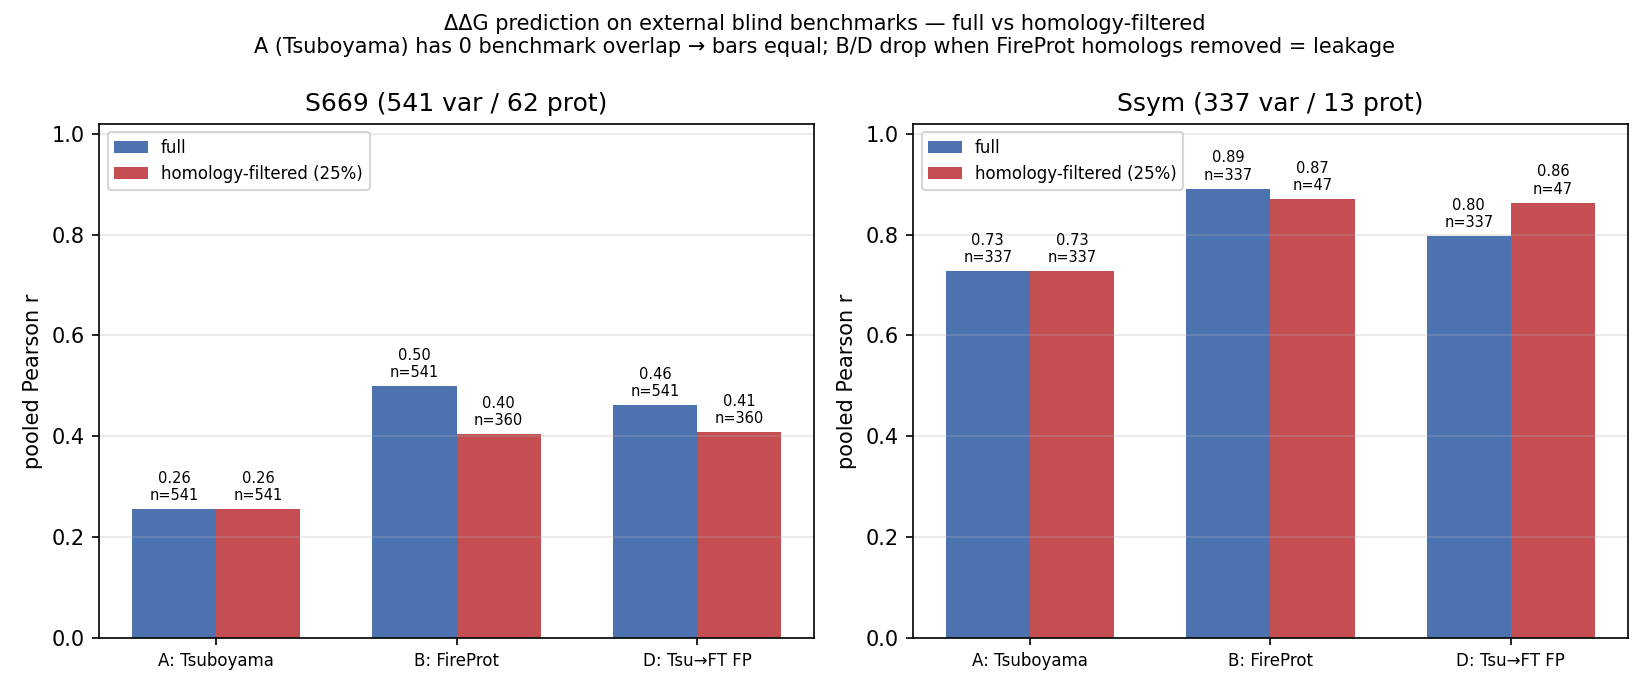
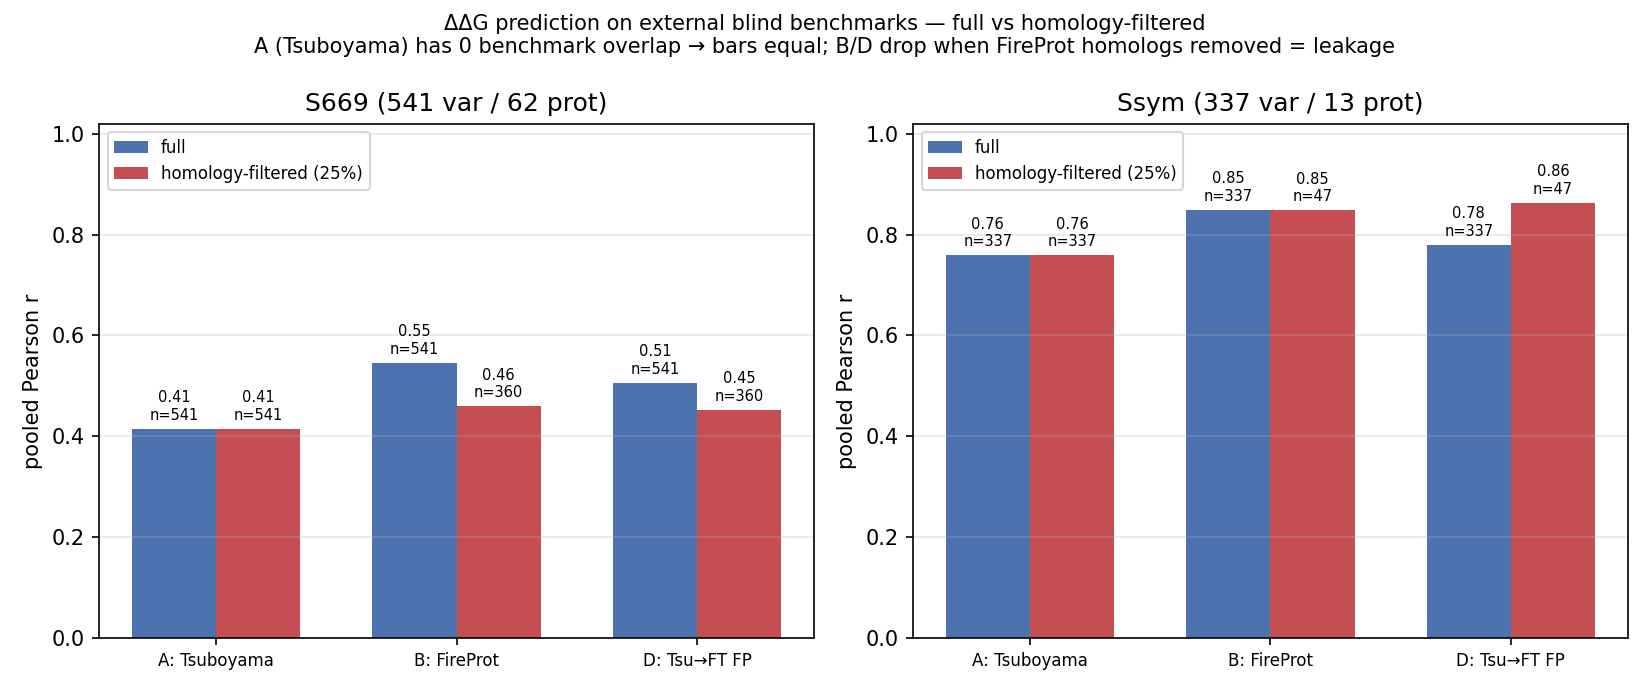
results/09: fix overfit estimator; regime A was understated by ~0.16 r
run_benchmarks.py::members() used early_stopping=False, max_iter=250 instead of
the project-default estimator. max_iter counts epochs, so regime A (24,718
augmented samples) took ~4x regime B's gradient updates and was overfit hardest
— confounding the very A-vs-B-vs-D comparison this study makes.

Swapped in make_model("mlp")'s settings (early_stopping=True, max_iter=1000,
n_iter_no_change=25, validation_fraction=0.1; warm_start retained for regime D's
fine-tune) and re-ran all three regimes. CPU only, ~25 min — every feature table
was already on disk.

S669 pooled r, before -> after:
  full      A 0.255 -> 0.415   B 0.500 -> 0.546   D 0.462 -> 0.506
  common25  A 0.214 -> 0.361   B 0.404 -> 0.460   D 0.408 -> 0.453

Regime A gains +0.15/+0.16, B and D only +0.04/+0.06 — the asymmetry the
epoch-count argument predicts. The ordering survives, but two things change:
the corpus effect on S669 roughly halves (common-25 gap B-A: 0.190 -> 0.099),
and the per-protein median r is now tied (A 0.594 vs B 0.594). The README's
"distribution > size" claim is rewritten accordingly — it is a cross-protein
calibration advantage, not a ranking one.

Originals archived as results_pre-correction.csv and
ssym_antisymmetry_pre-correction.csv. Defect found while building results/14.

diff --git a/results/09_external_benchmarks/run_benchmarks.py b/results/09_external_benchmarks/run_benchmarks.py
@@ -63,8 +63,18 @@ def augment(X, y):
 
 
 def members():
+    """The project-default estimator (as in ddg.evaluation.models.make_model('mlp')).
+
+    CORRECTED 2026-08-27. This previously used `max_iter=250, early_stopping=False`,
+    which overfits: `max_iter` counts EPOCHS, so regime A (24,718 augmented samples)
+    took ~4x the gradient updates of regime B (6,410) and was penalised hardest —
+    confounding the very A-vs-B-vs-D comparison this study makes. Isolating the change
+    on S669 raised regime A from r 0.255 to 0.415. `warm_start` is retained because
+    regime D fine-tunes from regime A's fitted weights.
+    """
     return [MLPRegressor((256, 128, 64), alpha=3e-3, learning_rate_init=1e-3,
-                         batch_size=256, max_iter=250, early_stopping=False,
+                         batch_size=256, max_iter=1000, early_stopping=True,
+                         n_iter_no_change=25, validation_fraction=0.1,
                          random_state=s, warm_start=True) for s in range(N_SEED)]
 
 
@@ -118,7 +128,7 @@ def main():
 
     D = copy.deepcopy(A)  # fine-tune: warm-start A on FireProt, reuse Tsuboyama transform
     for m in D:
-        m.set_params(learning_rate_init=1e-3, max_iter=400)
+        m.set_params(learning_rate_init=1e-3, max_iter=400)  # early stopping still applies
         m.fit(TA(Xfa), yfa)
 
     regimes = [("A_tsu_only", A, TA), ("B_fp_only", B, TB), ("D_finetuned", D, TA)]

diff --git a/results/09_external_benchmarks/status.md b/results/09_external_benchmarks/status.md
@@ -124,6 +124,52 @@ Method (reuse `ddg.evaluation.cluster`, MMseqs2):
 - Feature extraction is the long pole (cluster GPU). Everything else is local + cheap.
 
 ## Log — newest first
+
+### 2026-08-27 — regime A is overfit; its S669 number is understated (found in results/14)
+
+`run_benchmarks.py:65` builds the MLP members with **`early_stopping=False, max_iter=250`**,
+unlike the project default `make_model("mlp")` (`early_stopping=True, max_iter=1000,
+n_iter_no_change=25, validation_fraction=0.1`). Isolating that single change — same data,
+same concat features, same antisymmetry, same 5-seed ensemble, same 541-variant S669:
+
+| estimator | S669 pooled r | ρ |
+|---|---|---|
+| `early_stopping=False, max_iter=250` (as published here) | **0.255** | 0.262 |
+| `early_stopping=True, max_iter=1000` (project default) | **0.415** | 0.440 |
+
+The first reproduces this folder's published 0.255 / 0.262 exactly, so the difference is
+purely the estimator. **Regime A's S669 result is understated by ~0.16 Pearson.**
+
+**This may affect the study's central comparison.** `max_iter` is epochs, so at a fixed 250
+with no early stopping, regime A (12,359 muts → 24,718 augmented) received ~4x the gradient
+updates of regime B (3,205 → 6,410): the regime with the most data was overfit hardest. The
+reported ordering on the homology-controlled subset (A 0.214 vs B 0.404, D 0.408) is
+therefore confounded and should not be read as "Tsuboyama-only transfers worse to S669"
+until re-run.
+
+**FIXED the same day.** `members()` now uses the project-default estimator
+(`early_stopping=True, max_iter=1000, n_iter_no_change=25, validation_fraction=0.1`;
+`warm_start` retained for regime D's fine-tune, which now early-stops too). All three
+regimes re-run on CPU locally, ~25 min — no GPU and no re-prediction needed, since every
+feature table was already on disk. Originals archived as `results_pre-correction.csv` and
+`ssym_antisymmetry_pre-correction.csv`; `results.csv`, README and
+`figures/01_pooled_r_full_vs_filtered.png` regenerated.
+
+| benchmark | subset | A Tsuboyama | B FireProt | D fine-tuned |
+|---|---|---|---|---|
+| S669 | full | 0.255 → **0.415** | 0.500 → 0.546 | 0.462 → 0.506 |
+| S669 | common25 | 0.214 → **0.361** | 0.404 → 0.460 | 0.408 → 0.453 |
+| Ssym | full | 0.728 → 0.759 | 0.891 → 0.850 | 0.797 → 0.780 |
+
+Regime A gains +0.15/+0.16, B and D only +0.04/+0.06 — the asymmetry the epoch-count
+argument predicts. **The ordering survives**: FireProt-trained still leads pooled r on the
+honest common-25 subset. **But two things changed materially.** (i) The corpus effect on
+S669 roughly halves (common-25 gap B−A: 0.190 → 0.099). (ii) **The per-protein median r is
+now tied, A 0.594 vs B 0.594** — Tsuboyama-only ranks within-protein as well as
+FireProt-only, and lags only on the cross-protein offset, i.e. the domain-shift term from
+results/11. The README's "distribution > size" claim has been rewritten accordingly: it is
+a calibration advantage, not a ranking one.
+
 ### 2026-07-20 — both benchmarks extracted (full coverage) and scored
 - **ssym predict (212600) recovered to 337/13** — the slim-clobber fix worked (was 165/10).
 - **s669 predict (212602) completed 541/541 var, 62/62 prot, 0 failures** across ~2.5 h with

diff --git a/results/09_external_benchmarks/README.md b/results/09_external_benchmarks/README.md
@@ -1,5 +1,14 @@
 # External blind benchmarks: S669 & Ssym
 
+> ✅ **Corrected 2026-08-27** (defect found in results/14). `run_benchmarks.py::members()`
+> used `early_stopping=False, max_iter=250` instead of the project-default estimator.
+> Because `max_iter` counts epochs, regime A (24,718 augmented samples) took ~4x regime B's
+> gradient updates and was overfit hardest — confounding the A-vs-B-vs-D comparison. All
+> three regimes have been re-run with `make_model("mlp")`'s estimator. **Every number below
+> is the corrected one**; the originals are kept in `results_pre-correction.csv`.
+> Regime A gains most (S669 common-25: 0.214 → **0.361**), but the ordering holds — see
+> "What the correction changed".
+
 We test the Boltz-2 embedding ΔΔG predictor on the two most widely used blind
 stability benchmarks, under three training regimes, and separate genuine
 generalization from train↔test sequence-identity leakage.
@@ -93,3 +102,19 @@ python results/07_feature_symmetry_ablation/build_ablation_features.py data/proc
 MMSEQS_BIN=/path/to/mmseqs python results/09_external_benchmarks/build_homology_map.py
 python results/09_external_benchmarks/run_benchmarks.py        # -> results.csv, figures/
 ```
+
+## What the correction changed
+
+Pooled Pearson r, before → after the estimator fix (originals in `results_pre-correction.csv`):
+
+| benchmark | subset | A Tsuboyama | B FireProt | D fine-tuned |
+|---|---|---|---|---|
+| S669 | full | 0.255 → **0.415** | 0.500 → 0.546 | 0.462 → 0.506 |
+| S669 | common25 | 0.214 → **0.361** | 0.404 → 0.460 | 0.408 → 0.453 |
+| Ssym | full | 0.728 → 0.759 | 0.891 → 0.850 | 0.797 → 0.780 |
+
+Regime A gains **+0.15 to +0.16**, the others **+0.04 to +0.06** — exactly the asymmetry
+predicted by the epoch-count argument, since A had the most data and therefore the most
+over-training at a fixed 250 epochs. The regime ordering is unchanged, but the *size* of
+the corpus effect on S669 roughly halves (common-25 gap B−A: 0.190 → 0.099), and the
+per-protein ranking advantage disappears entirely.
